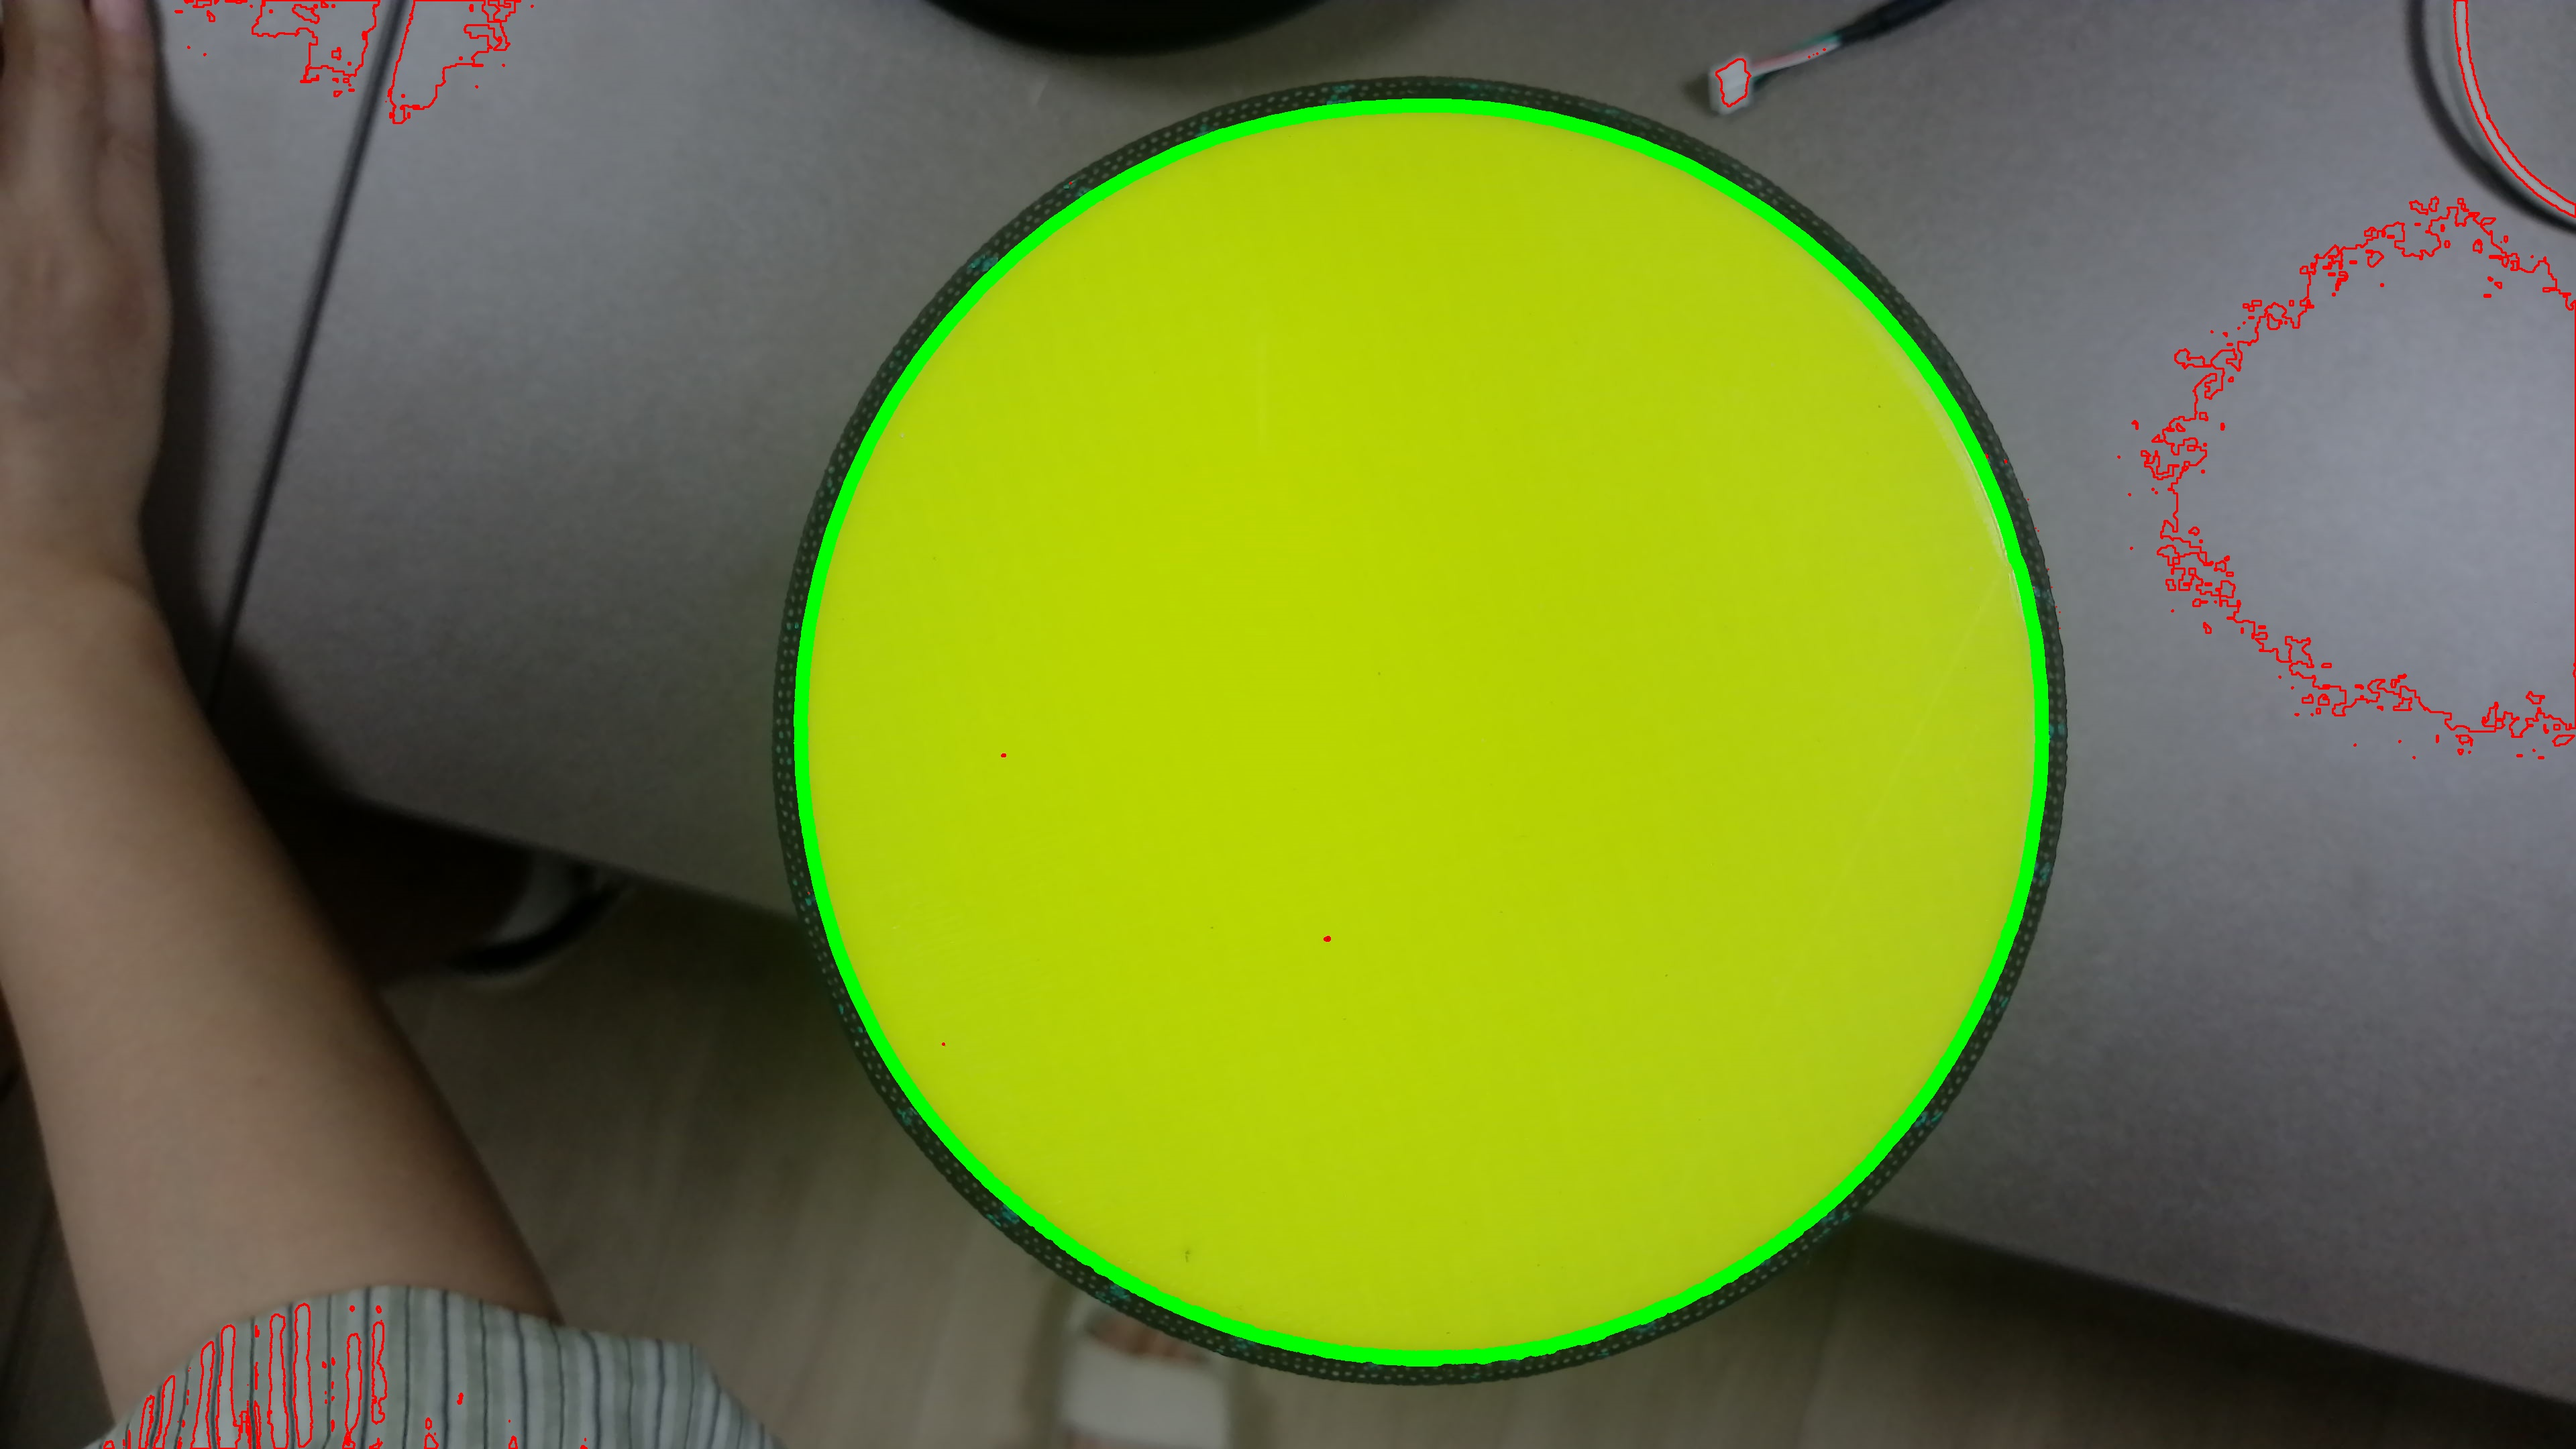
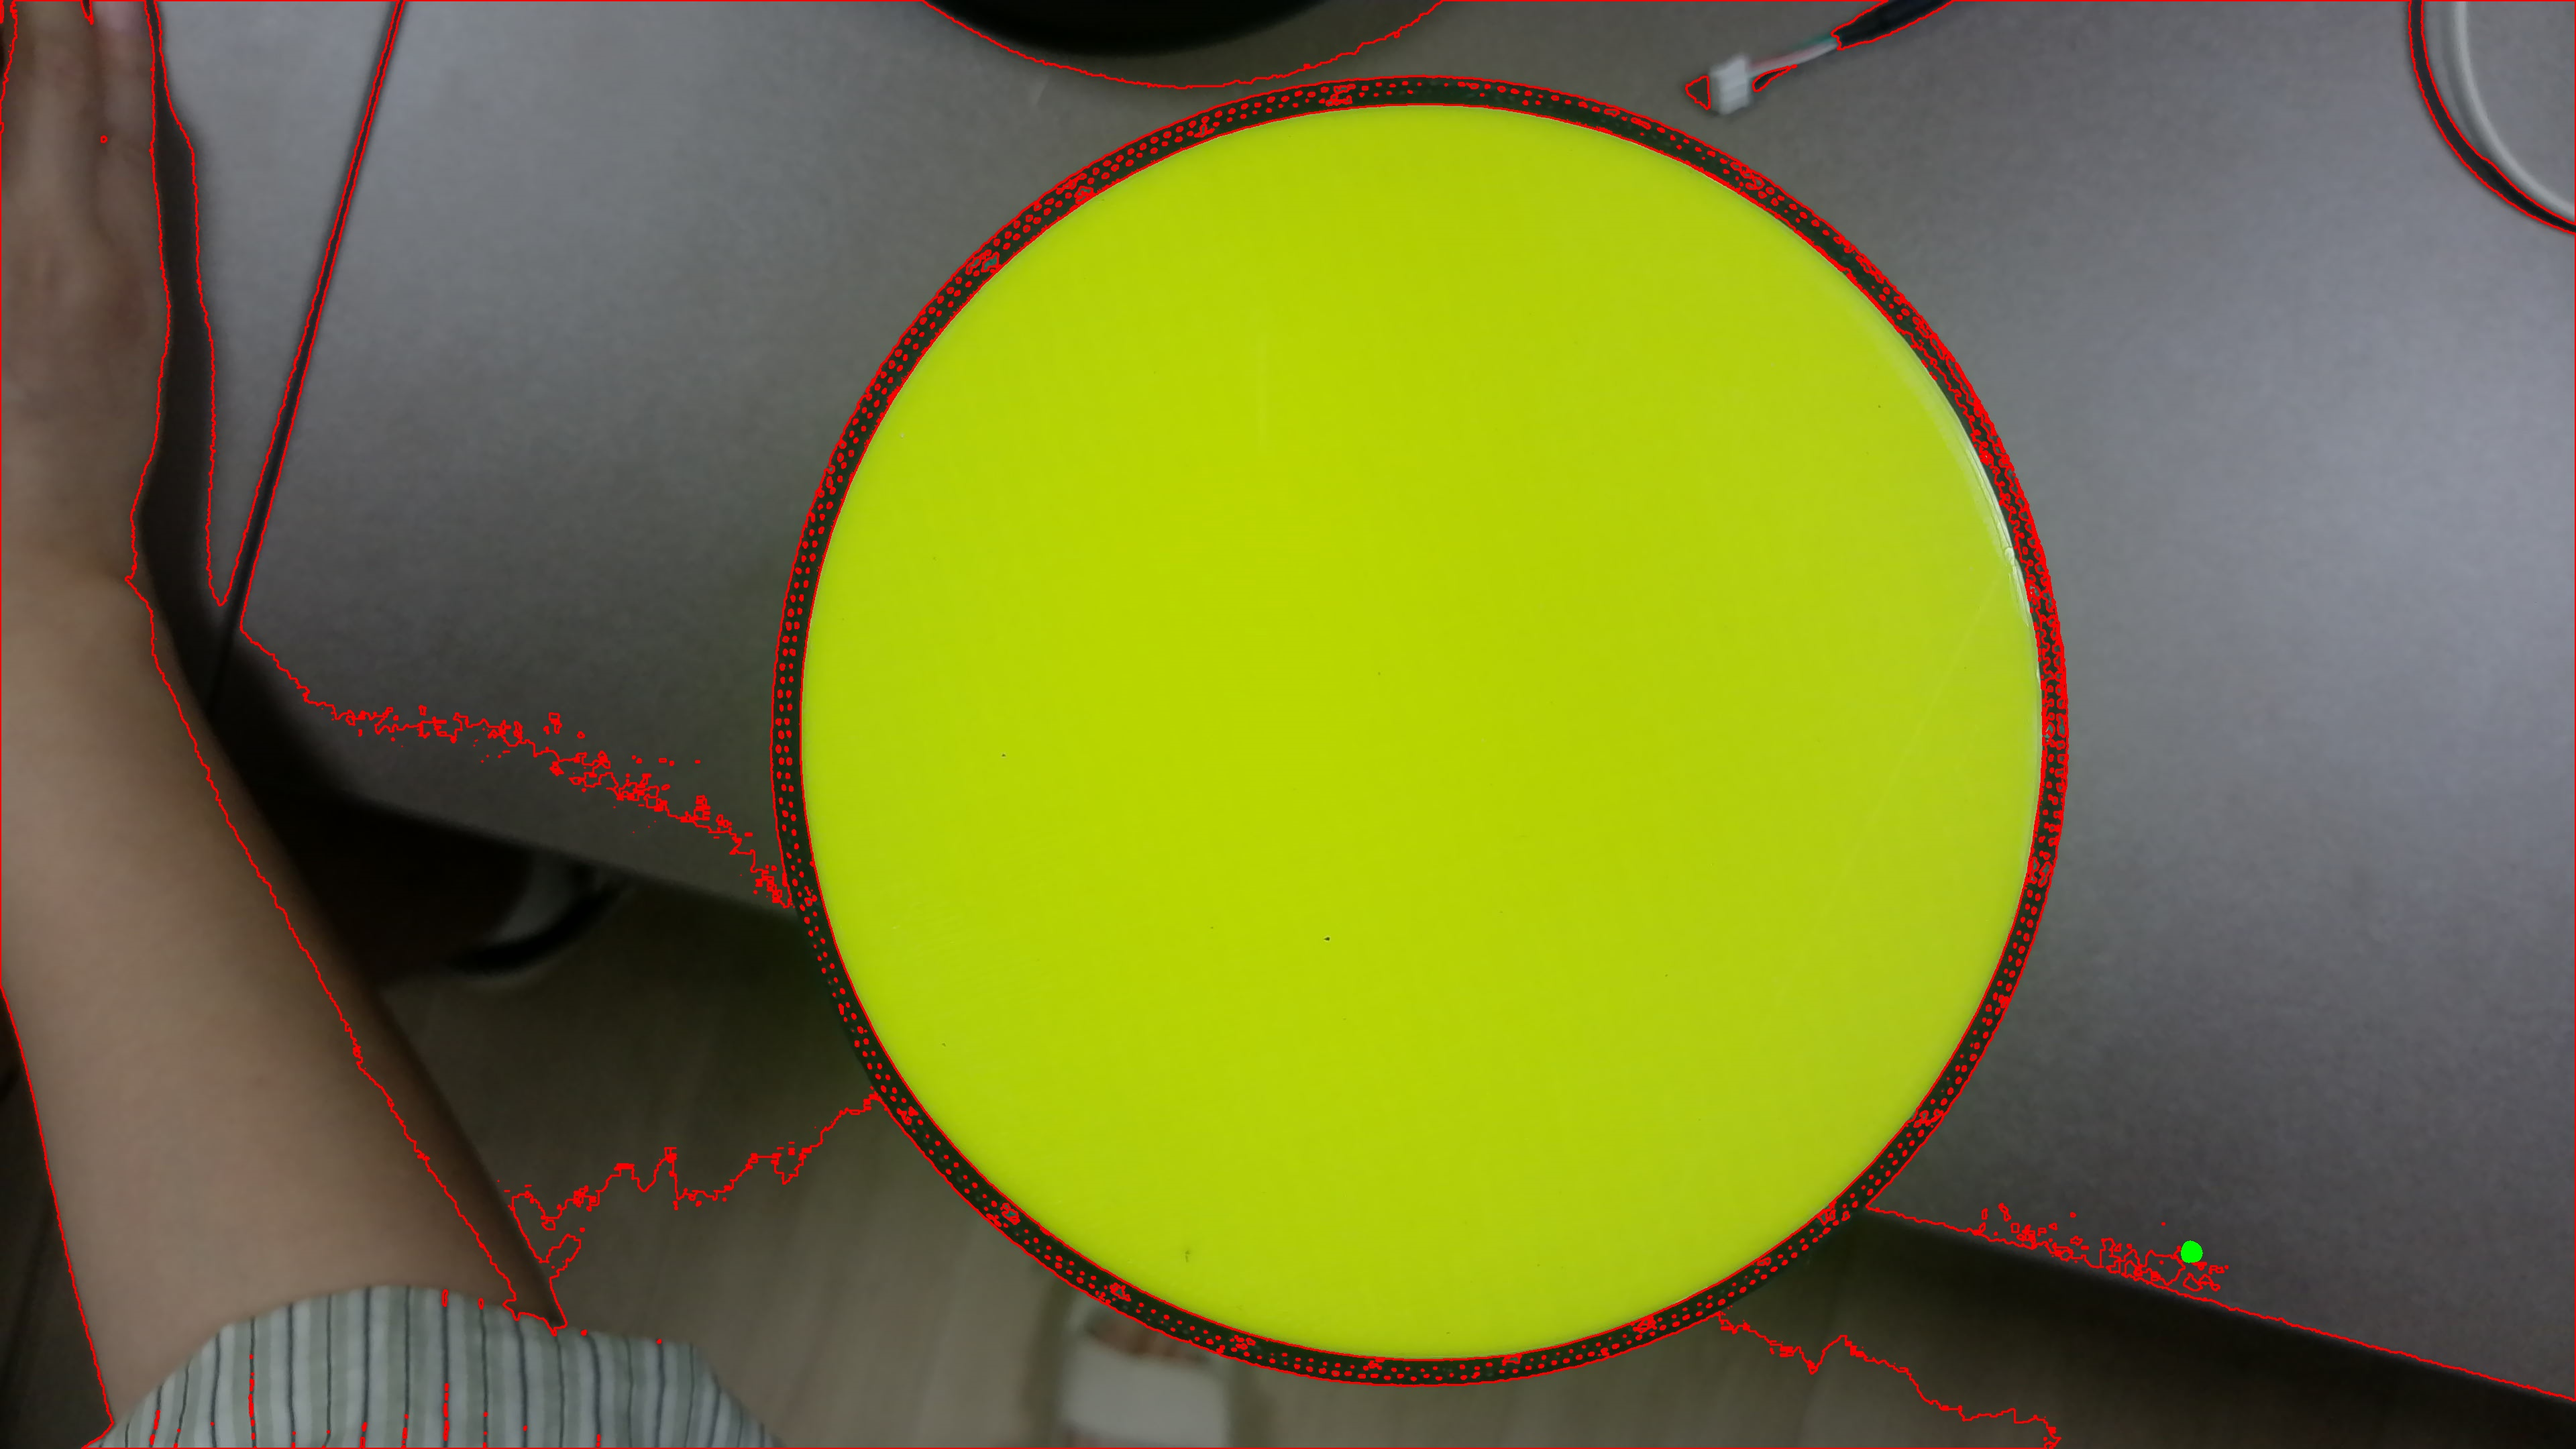
更新ReadME

diff --git a/get_something_3.py b/get_something_3.py
@@ -8,7 +8,7 @@ image = cv2.imread('image/new.bmp')
 gray = cv2.cvtColor(image, cv2.COLOR_BGR2GRAY)
 
 # 进行二值化处理
-threshold_value = 127  # 可以根据需要调整阈值
+threshold_value = 54  # 可以根据需要调整阈值
 _, binary_image = cv2.threshold(gray, threshold_value, 255, cv2.THRESH_BINARY)
 
 # 显示二值化处理后的图像
@@ -20,20 +20,17 @@ cv2.waitKey(0)
 contours, hierarchy = cv2.findContours(binary_image, cv2.RETR_TREE, cv2.CHAIN_APPROX_SIMPLE)
 
 # 在原图上绘制轮廓
-cv2.drawContours(image, contours, -1, (0, 0, 250), 2)  # 使用红色绘制轮廓
+# cv2.drawContours(image, contours, -1, (0, 0, 250), 2)  # 使用红色绘制轮廓
 
 # 显示处理后的图像
-cv2.imwrite('new_Contours.jpg', image)
-cv2.imshow('new_Contours', image)
-cv2.waitKey(0)
-
-
+# cv2.imwrite('new_Contours.jpg', image)
+# cv2.imshow('new_Contours', image)
+# cv2.waitKey(0)
 
 # 找到最大的近似椭圆形状的轮廓
 max_area = 0
 max_ellipse_contour = None
 for contour in contours:
-    # 计算轮廓的圆度，接近1表示接近圆形
     # 计算轮廓的圆度，接近1表示接近圆形
     perimeter = cv2.arcLength(contour, True)
     area = cv2.contourArea(contour)
@@ -43,16 +40,98 @@ for contour in contours:
             max_area = area
             max_ellipse_contour = contour
 
-
 # 在原图上绘制最大的椭圆形状的轮廓
 if max_ellipse_contour is not None:
     cv2.drawContours(image, [max_ellipse_contour], -1, (0, 255, 0), 20)  # 使用绿色绘制轮廓
 
+# 高斯模糊以减少噪音和错误检测
+blur = cv2.GaussianBlur(gray, (9, 9), 2)
 
-# 显示处理后的图像
-cv2.imwrite('Max-Ellipse-Contour.jpg', image)
-cv2.imshow('Max Ellipse Contour', image)
-cv2.waitKey(0)
+# 使用Hough Circle Transform检测圆
+# 900和1000是关键
+circles = cv2.HoughCircles(blur, cv2.HOUGH_GRADIENT, dp=1, minDist=50,
+                           param1=50, param2=30, minRadius=900, maxRadius=1100)
+
+import random
+
+# 初始化边界矩形的坐标
+x_min = y_min = np.inf
+x_max = y_max = 0
+
+
+# 初始化圆心坐标的和
+sum_x = 0
+sum_y = 0
+count = 0
+
+
+# 确保至少找到一个圆
+if circles is not None:
+    circles = np.uint16(np.around(circles))
+    for i in circles[0, :]:
+        # 随机生成颜色
+        color = (random.randint(0, 255), random.randint(0, 255), random.randint(0, 255))
+        
+        # 画出外圆
+        # cv2.circle(image, (i[0], i[1]), i[2], color, 10)
+        
+        # 画出圆心
+        # cv2.circle(image, (i[0], i[1]), 2, color, 10)
+
+        # 累加圆心坐标
+        sum_x += i[0]
+        sum_y += i[1]
+        count += 1
+
+        
+        # 更新边界矩形的坐标
+        x_min = min(x_min, i[0] - i[2])
+        y_min = min(y_min, i[1] - i[2])
+        x_max = max(x_max, i[0] + i[2])
+        y_max = max(y_max, i[1] + i[2])
+
+
+        # # 显示处理后的图像
+        # cv2.imshow('Hough Circles', image)
+        # cv2.waitKey(0)
+
+
+    # 计算圆心的平均值
+    if count > 0:
+        # avg_x = sum_x / count
+        # avg_y = sum_y / count
+
+        avg_x = int(round(sum_x / count))
+         
+        avg_y = int(round(sum_y / count))
+
+        print(f"Average center of the circles is at ({avg_x}, {avg_y})")
+        # 以平均圆心为中心，画一个半径为980的圆
+        cv2.circle(image, (avg_x, avg_y), 940, (255, 255, 255), 10)
+        # 以平均圆心为中心，画一个半径为980的圆
+        cv2.circle(image, (avg_x, avg_y), 980, (255, 255, 255), 10)
+
+        # 显示处理后的图像
+        cv2.imshow('外圆和内圆', image)
+        cv2.waitKey(0)
+
+
+    # 使用合并的边界矩形截取ROI
+    roi = image[y_min:y_max, x_min:x_max]
+
+    # 显示ROI
+    cv2.imshow('ROI', roi)
+    cv2.waitKey(0)
+
+    # 保存ROI到文件
+    cv2.imwrite('ROI.jpg', roi)
+
 cv2.destroyAllWindows()
 
 
+
+# # 显示处理后的图像
+# cv2.imwrite('multi.jpg', image)
+# # cv2.imshow('Hough Circles', image)
+# # cv2.waitKey(0)
+# cv2.destroyAllWindows()

diff --git a/README.md b/README.md
@@ -23,3 +23,9 @@
 二值化后轮廓检测
 
 ![Contours](./Contours.jpg)
+
+![new_binary_image](./new_binary_image.jpg)
+
+![ROI—new](./ROI—new.jpg)
+
+![实物非圆ROI](./实物非圆ROI.jpg)
